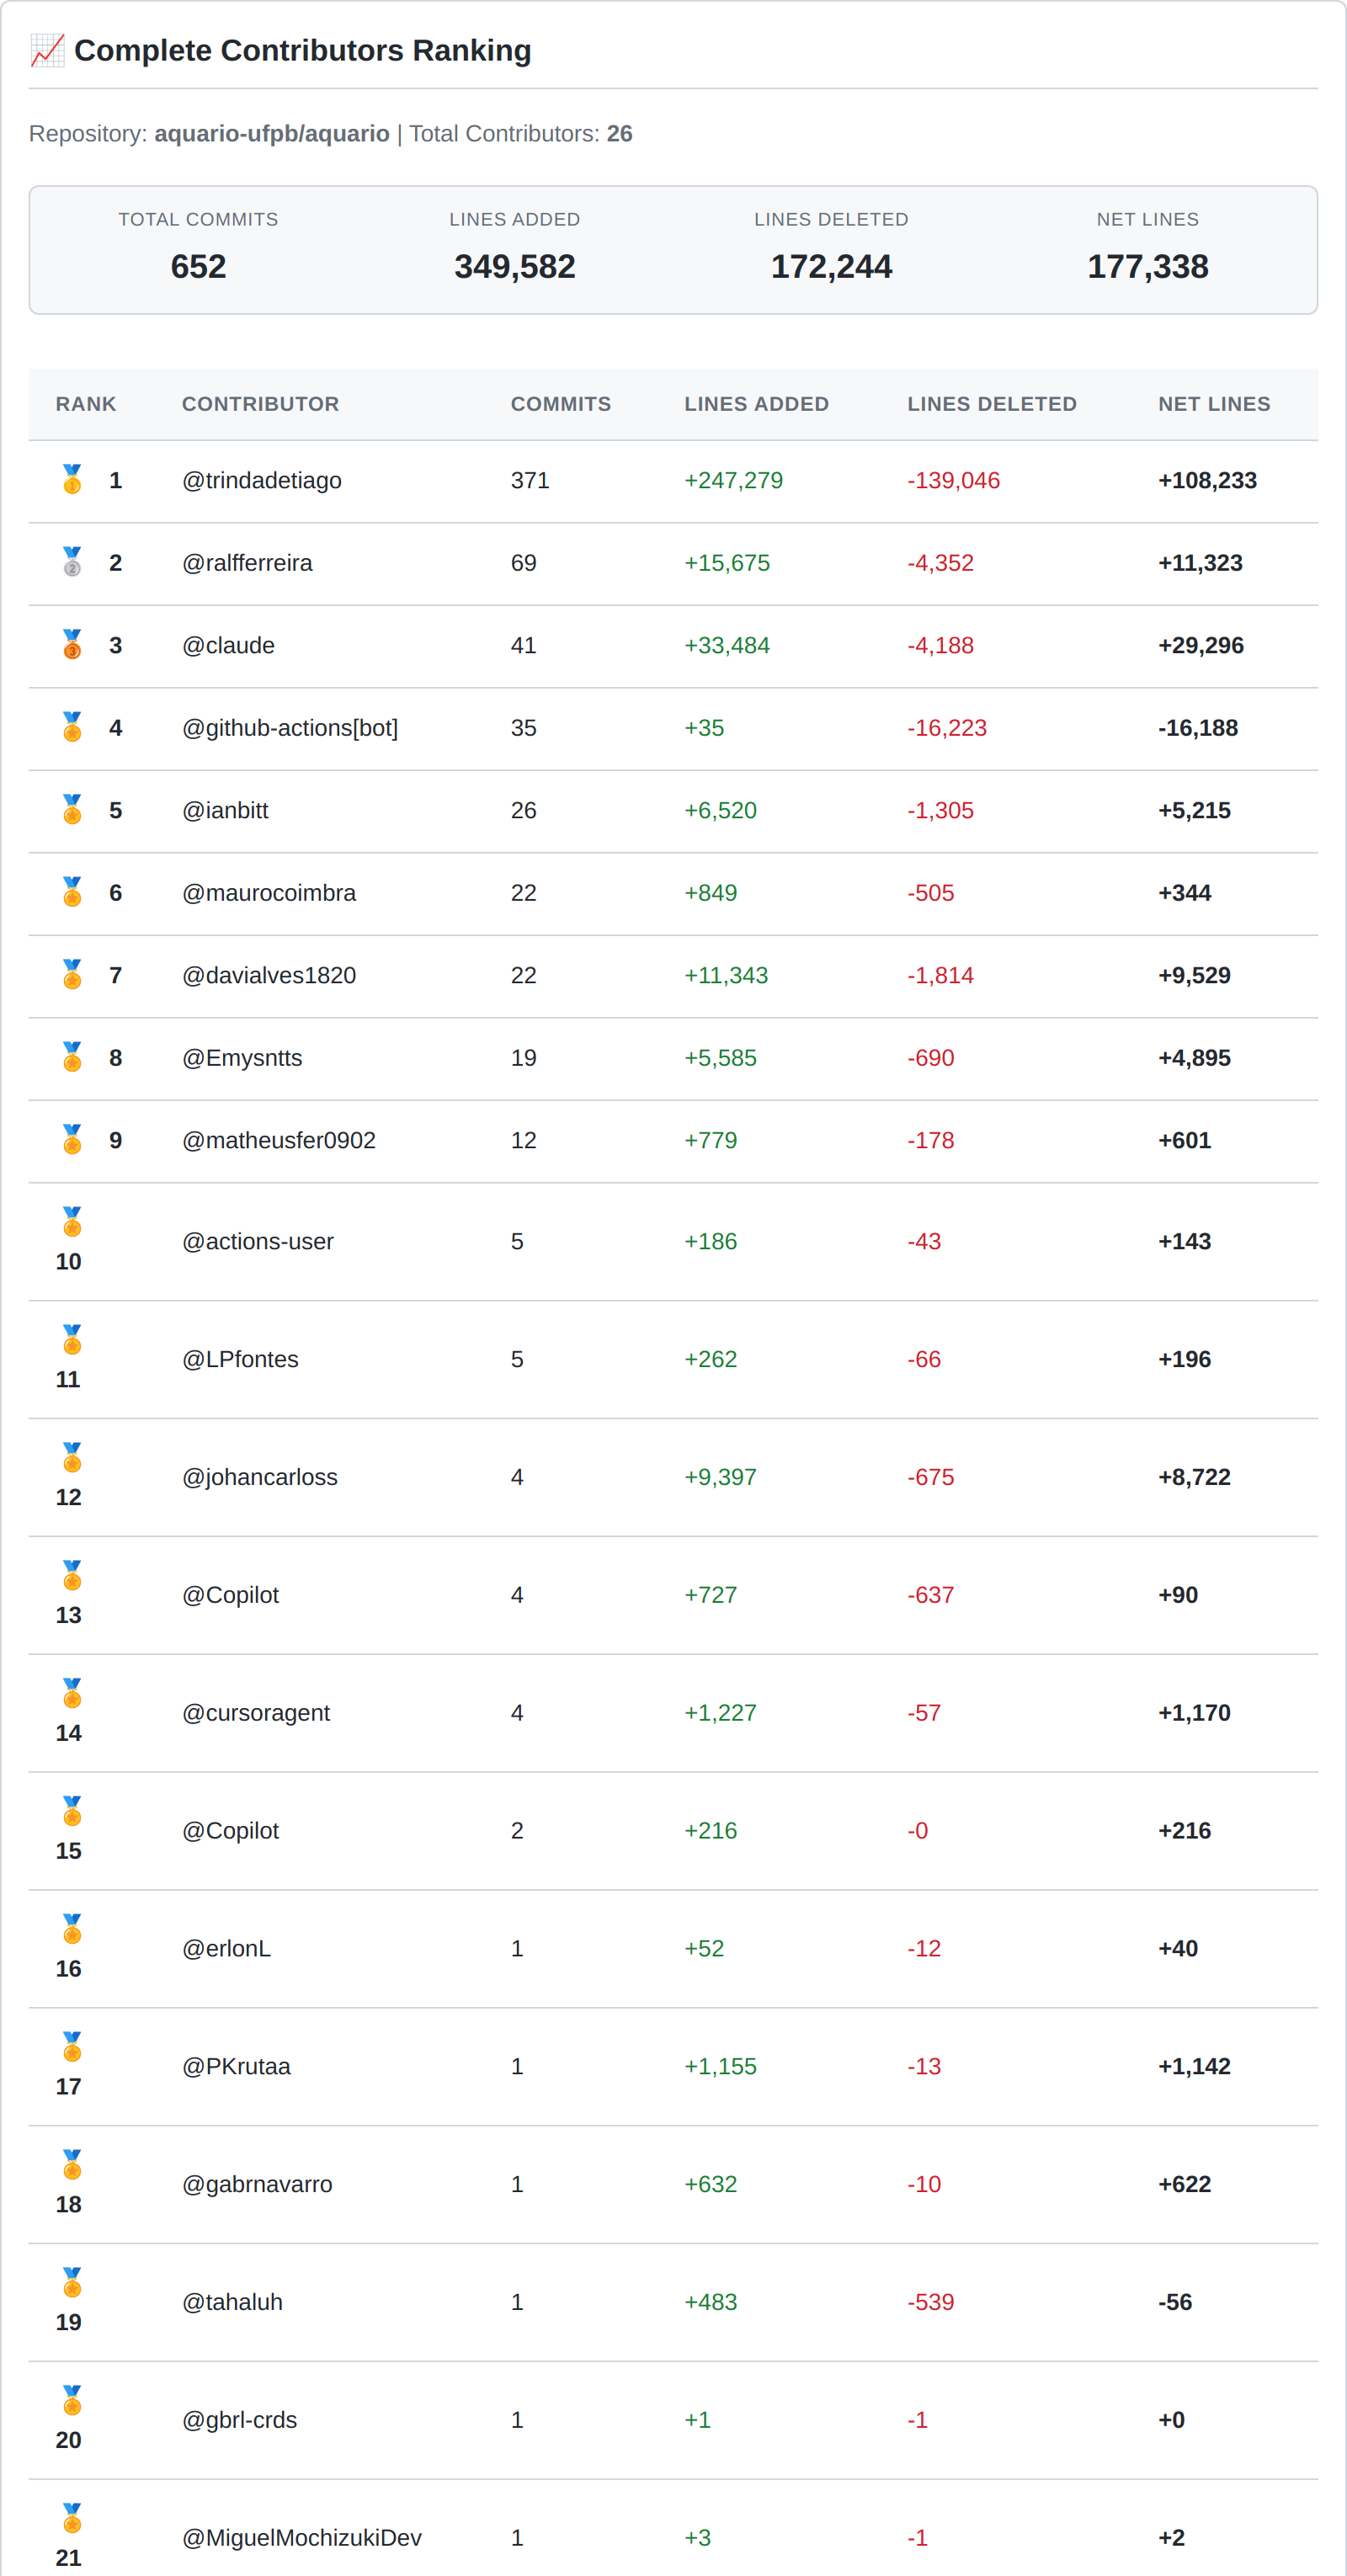
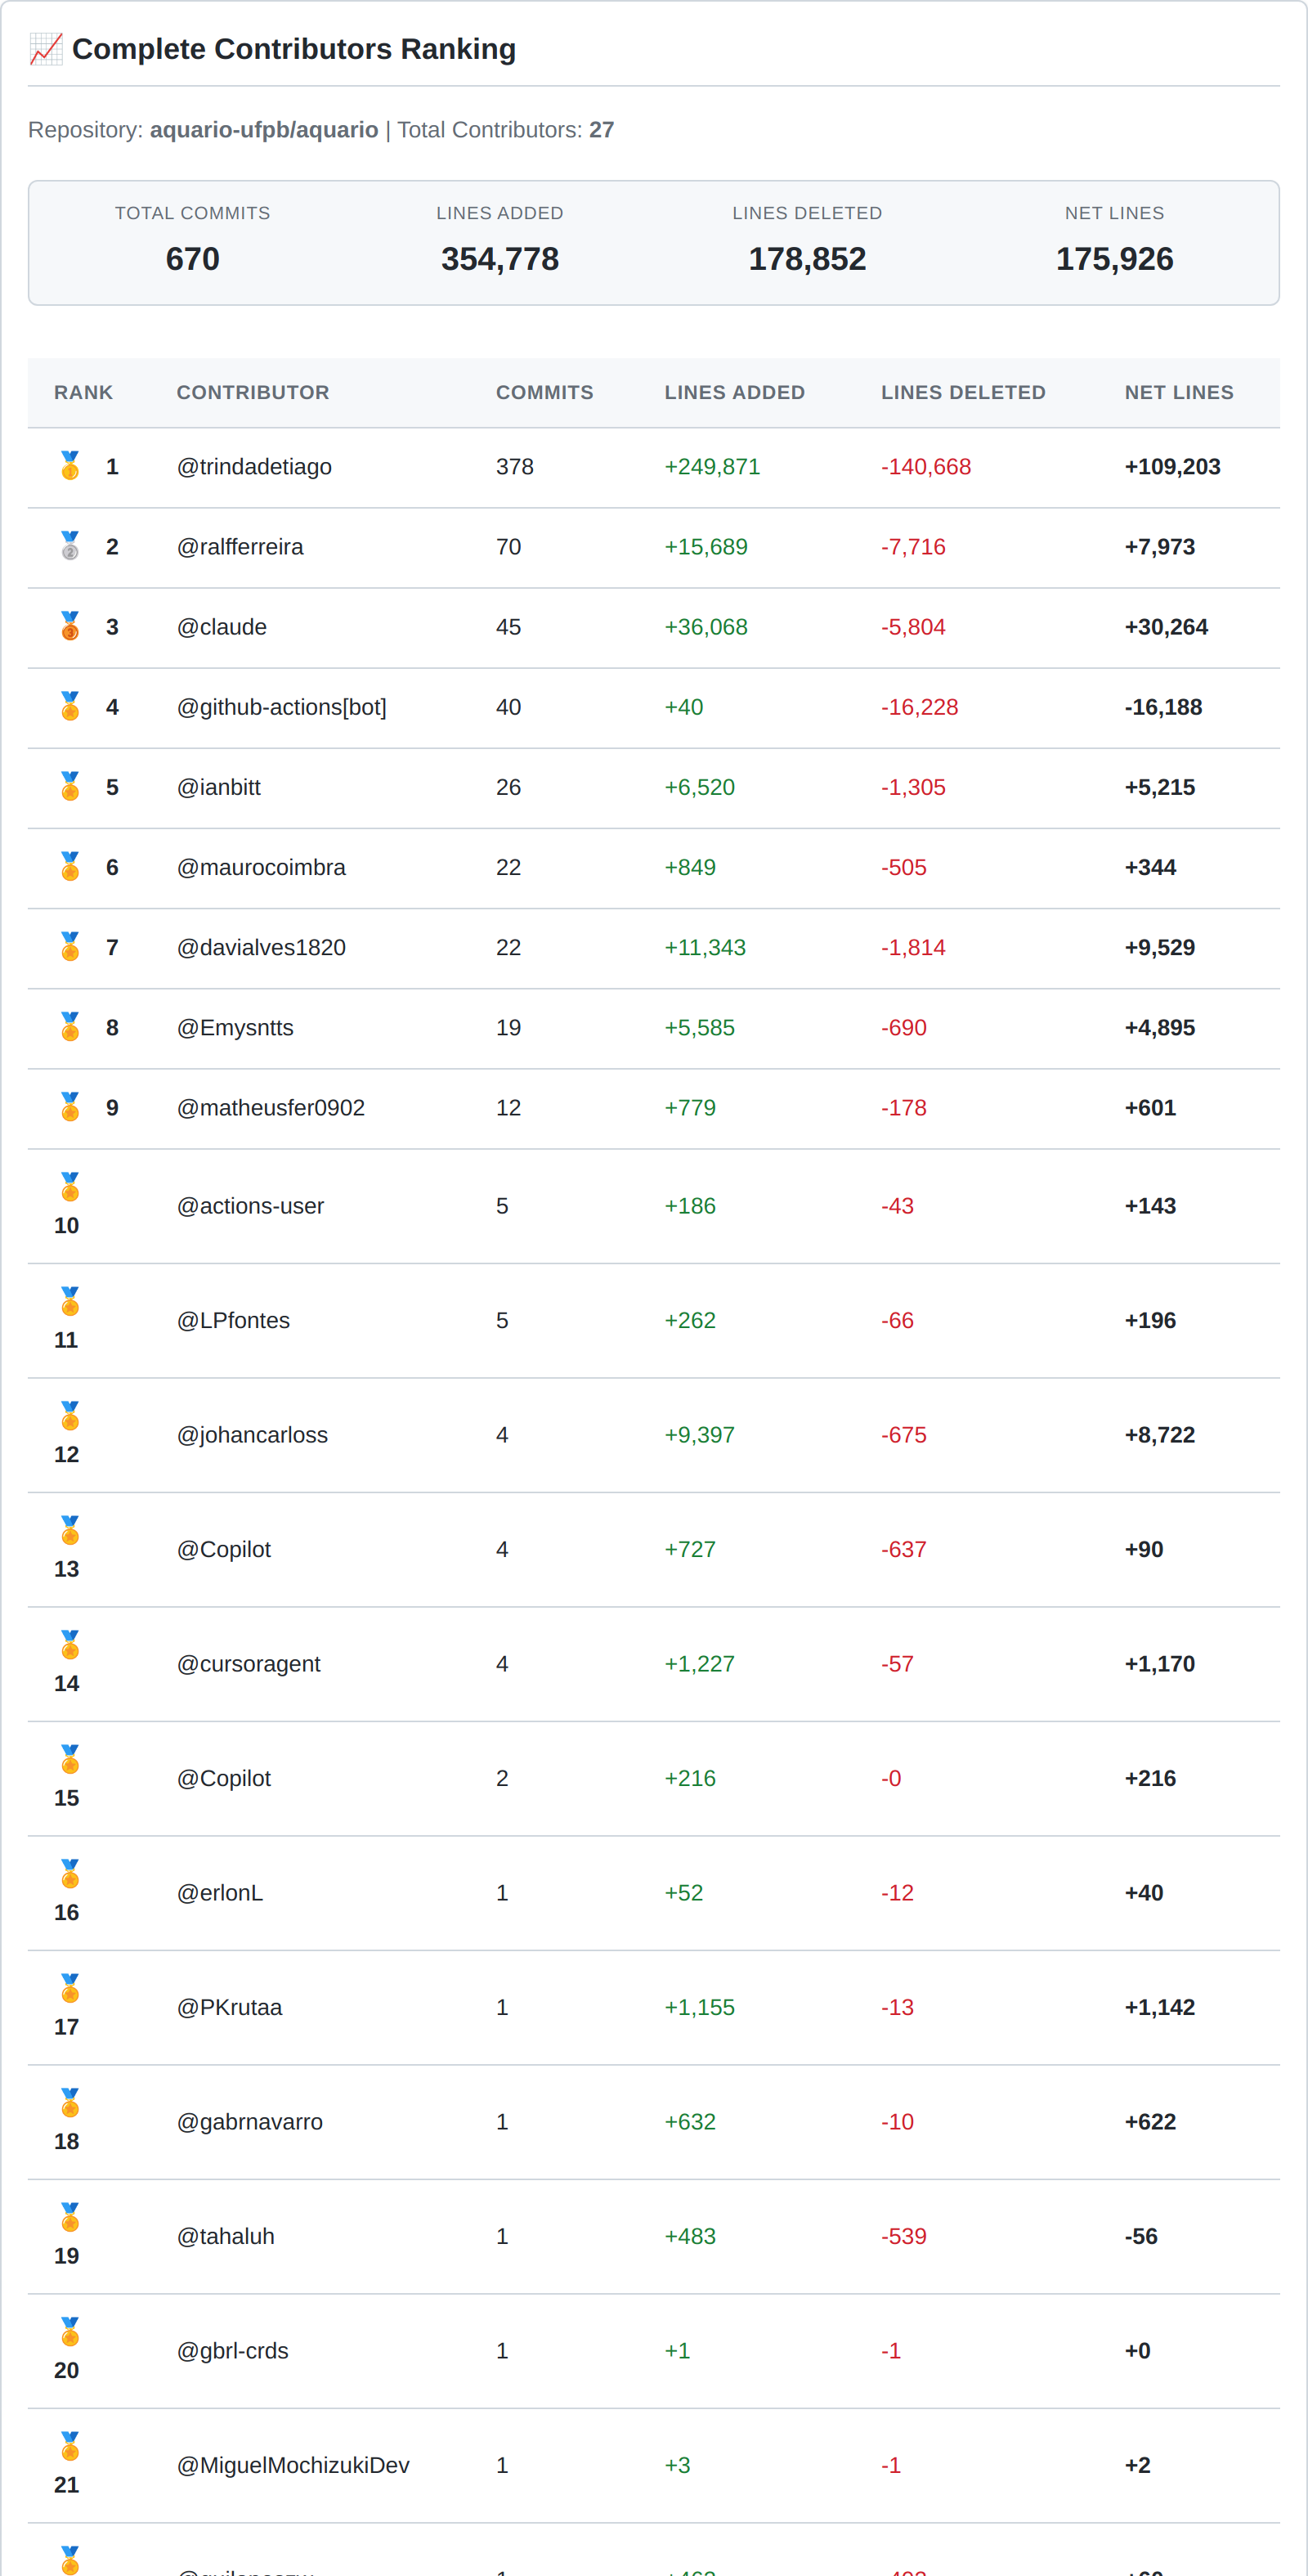
📊 Update contributor insights and visualizations [skip ci]

diff --git a/CONTRIBUTOR_INSIGHTS.md b/CONTRIBUTOR_INSIGHTS.md
@@ -1,7 +1,7 @@
 # 📊 Contributor Insights
 
 > **Repository:** aquario-ufpb/aquario  
-> **Last Updated:** Sunday, May 3, 2026 at 05:35 AM  
+> **Last Updated:** Sunday, May 24, 2026 at 06:07 AM  
 > **Generated by:** [GitHub Action](.github/workflows/contributor-insights.yml)
 
 ---
@@ -10,14 +10,14 @@
 
 | Metric | Value |
 |--------|-------|
-| **Total Contributors** | 26 |
-| **Total Commits** | 652 |
-| **Total Lines Added** | +349,582 |
-| **Total Lines Deleted** | -172,244 |
-| **Net Lines Changed** | +177,338 |
+| **Total Contributors** | 27 |
+| **Total Commits** | 670 |
+| **Total Lines Added** | +354,778 |
+| **Total Lines Deleted** | -178,852 |
+| **Net Lines Changed** | +175,926 |
 | **Average Commits per Contributor** | 25 |
 | **Most Active Contributor** | [@trindadetiago](https://github.com/trindadetiago) |
-| **Activity Trend** | 📈 increasing |
+| **Activity Trend** | 📉 decreasing |
 
 ---
 
@@ -25,10 +25,10 @@
 
 | Rank | Contributor | Commits | Lines Added | Lines Deleted | Net Lines |
 |------|-------------|---------|-------------|---------------|-----------|
-| 🥇 1 | [@trindadetiago](https://github.com/trindadetiago) | 371 | +247,279 | -139,046 | +108,233 |
-| 🥈 2 | [@ralfferreira](https://github.com/ralfferreira) | 69 | +15,675 | -4,352 | +11,323 |
-| 🥉 3 | [@claude](https://github.com/claude) | 41 | +33,484 | -4,188 | +29,296 |
-| 🏅 4 | [@github-actions[bot]](https://github.com/github-actions[bot]) | 35 | +35 | -16,223 | -16,188 |
+| 🥇 1 | [@trindadetiago](https://github.com/trindadetiago) | 378 | +249,871 | -140,668 | +109,203 |
+| 🥈 2 | [@ralfferreira](https://github.com/ralfferreira) | 70 | +15,689 | -7,716 | +7,973 |
+| 🥉 3 | [@claude](https://github.com/claude) | 45 | +36,068 | -5,804 | +30,264 |
+| 🏅 4 | [@github-actions[bot]](https://github.com/github-actions[bot]) | 40 | +40 | -16,228 | -16,188 |
 | 🏅 5 | [@ianbitt](https://github.com/ianbitt) | 26 | +6,520 | -1,305 | +5,215 |
 
 ---
@@ -36,23 +36,22 @@
 ## 📈 Activity Analysis
 
 ### Weekly Activity Highlights
-- **Most Active Week:** 2025-11-02 (69 commits by 25 contributors)
-- **Least Active Week:** 2024-07-21 (1 commits by 25 contributors)
+- **Most Active Week:** 2025-11-02 (69 commits by 26 contributors)
+- **Least Active Week:** 2024-07-21 (1 commits by 26 contributors)
 
 ### Recent Activity (Last 4 Weeks)
-- **Total Commits:** 36
-- **Average per Week:** 9
+- **Total Commits:** 22
+- **Average per Week:** 5.5
 - **Weeks with Activity:** 3/4
-- **Lines Added:** +65,683
-- **Lines Deleted:** -6,448
-- **Net Lines:** +59,235
+- **Lines Added:** +6,008
+- **Lines Deleted:** -6,688
+- **Net Lines:** -680
 
 ---
 
 ## 🆕 Recent Contributors
 
-- [@GfelixG](https://github.com/GfelixG) - 1 commits (first commit: 2026-04-26)
-- [@gabrielbribeiroo](https://github.com/gabrielbribeiroo) - 1 commits (first commit: 2026-04-26)
+- [@beapessoa](https://github.com/beapessoa) - 1 commits (first commit: 2026-05-03)
 
 ---
 
@@ -60,8 +59,8 @@
 
 | Range | Contributors | Percentage |
 |-------|-------------|------------|
-| 1-5 commits | 17 | 65% |
-| 6-20 commits | 2 | 8% |
+| 1-5 commits | 18 | 67% |
+| 6-20 commits | 2 | 7% |
 | 21-50 commits | 5 | 19% |
 | 51-100 commits | 1 | 4% |
 | 100+ commits | 1 | 4% |
@@ -72,9 +71,9 @@
 
 | Period | Commits | Contributors | Activity Level |
 |--------|---------|-------------|----------------|
-| **Last 4 weeks** | 36 | 3 active | 9 avg/week |
-| **Last 8 weeks** | 50 | 6 active | 6.3 avg/week |
-| **All time** | 652 | 26 | 13 avg/week |
+| **Last 4 weeks** | 22 | 3 active | 5.5 avg/week |
+| **Last 8 weeks** | 60 | 6 active | 7.5 avg/week |
+| **All time** | 670 | 27 | 13 avg/week |
 
 ---
 
@@ -82,7 +81,7 @@
 
 This report is automatically generated every **Sunday at 2 AM UTC** by a GitHub Action. You can also trigger it manually from the Actions tab.
 
-**Last run:** 2026-05-03T05:35:47.365Z
+**Last run:** 2026-05-24T06:07:54.949Z
 
 ---
 